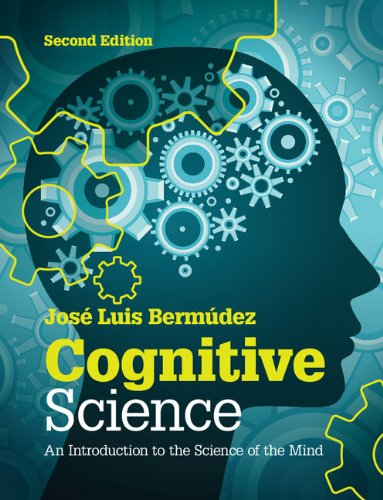
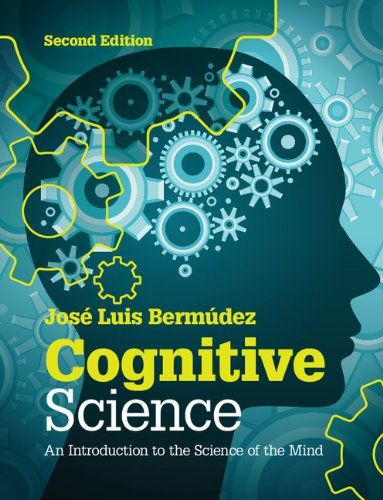
Compress textbook covers

diff --git a/README.md b/README.md
@@ -5,7 +5,7 @@ Notes Link: https://brianpho.com/CR4-DL/
 Main Site Link: https://brianpho.com/
 
 TODO
-- [ ] Compress textbook covers
+- [x] Compress textbook covers
 - [ ] Change favicon
 - [ ] Make timeline colorful with current state
 - [ ] Complete change of site visuals 
